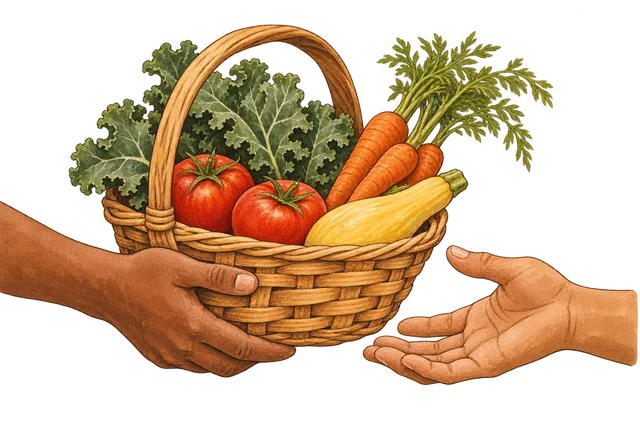
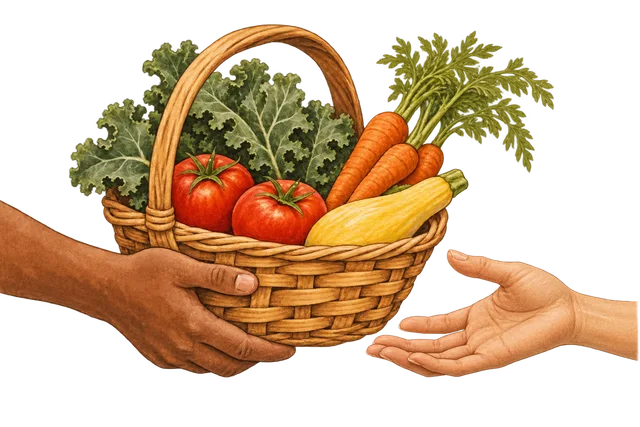
Add okra artwork and refine receiving hand in harvest scene

diff --git a/apps/grn/src/components/branding/GardenArt.test.tsx b/apps/grn/src/components/branding/GardenArt.test.tsx
@@ -11,8 +11,13 @@ describe('Garden artwork', () => {
   });
 
   it('uses existing silhouettes for crops without an illustration', () => {
+    render(<CropArtwork iconKey="asparagus" title="Asparagus" />);
+    expect(screen.getByRole('img', { name: 'Asparagus' }).tagName.toLowerCase()).toBe('svg');
+  });
+
+  it('uses the botanical illustration for okra', () => {
     render(<CropArtwork iconKey="okra" title="Okra" />);
-    expect(screen.getByRole('img', { name: 'Okra' }).tagName.toLowerCase()).toBe('svg');
+    expect(screen.getByRole('img', { name: 'Okra' })).toHaveAttribute('src', '/images/botanical/crops/okra.svg');
   });
 
   it('recovers from a failed image and tries the next crop independently', () => {

diff --git a/apps/grn/src/components/branding/GardenArt.tsx b/apps/grn/src/components/branding/GardenArt.tsx
@@ -5,7 +5,7 @@ import './GardenArt.css';
 
 const illustratedCrops = new Set<CropIconKey>([
   'basil', 'broccoli', 'carrot', 'cucumber', 'kale', 'lettuce',
-  'onion', 'pea', 'pepper', 'radish', 'strawberry', 'tomato',
+  'okra', 'onion', 'pea', 'pepper', 'radish', 'strawberry', 'tomato',
 ]);
 
 interface CropArtworkProps {

diff --git a/docs/design-botanical-art.md b/docs/design-botanical-art.md
@@ -4,17 +4,17 @@ A modern botanical field-journal direction: clear silhouettes, fine dark olive l
 
 ## Assets and usage
 
-`apps/grn/public/images/botanical/crops/` contains twelve original vector illustrations: basil, broccoli, carrot, cucumber, kale, lettuce, onion, pea, pepper, radish, strawberry, and tomato. Each is an 80 by 80 transparent SVG, under 1 KB. They are used in plant records, seasonal suggestions, harvest timelines, and saved-harvest feedback. Unsupported crops and failed image loads use the existing silhouette system. Canvas markers and small utility icons retain their current graphics for legibility and performance.
+`apps/grn/public/images/botanical/crops/` contains thirteen original vector illustrations: basil, broccoli, carrot, cucumber, kale, lettuce, okra, onion, pea, pepper, radish, strawberry, and tomato. Each is an 80 by 80 transparent SVG, under 1 KB. They are used in plant records, seasonal suggestions, harvest timelines, and saved-harvest feedback. Unsupported crops and failed image loads use the existing silhouette system. Canvas markers and small utility icons retain their current graphics for legibility and performance.
 
 `first-garden.webp` is an inviting raised bed with three seedlings, a terracotta pot, and a trowel. It appears in the empty Plants view and the getting-started checklist (the checklist omits it on small screens to keep the action close).
 
 `neighbor-harvest.webp` shows two neighbors' hands offering and receiving a basket of produce. It appears beside the Share introduction. Neither scene is a photograph or user garden record.
 
-Both scenes are 640 by 427 WebP with alpha, about 100 KB and 83 KB respectively. Explicit dimensions reserve space; assets load lazily. Scenes are decorative and removed if loading fails. Visible labels and actions work without images. Saved-harvest artwork has a single 240 ms entrance that is disabled with reduced motion.
+Both scenes are 640 by 427 WebP with alpha, about 100 KB and 74 KB respectively. Explicit dimensions reserve space; assets load lazily. Scenes are decorative and removed if loading fails. Visible labels and actions work without images. Saved-harvest artwork has a single 240 ms entrance that is disabled with reduced motion.
 
 ## Generation and prompt set
 
-The two scenes were generated using the built-in ImageGen tool, then resized and encoded as WebP with Sharp, preserving transparency. Original generated PNGs remain in the tool's generated-images folder. Project assets live under `apps/grn/public/images/botanical/`. The twelve SVGs were drawn directly as editable vector source, extending the app's existing graphic system.
+The two scenes were generated using the built-in ImageGen tool, then resized and encoded as WebP with Sharp, preserving transparency. Original generated PNGs remain in the tool's generated-images folder. Project assets live under `apps/grn/public/images/botanical/`. The thirteen SVGs were drawn directly as editable vector source, extending the app's existing graphic system.
 
 Shared scene prompt: One production illustration for Good Roots Network, a warm professional gardening app. Modern botanical field-journal style: clean confident silhouettes, delicate ink detail, lightly textured gouache fills. Restrained moss and sage greens, terracotta, warm ochre, dark brown outlines. Mature editorial illustration, charming but not childish. No faces, mascot, lettering, logo, border, photography, or UI. Broad horizontal composition around 3:2, isolated vignette, organic edges, generous transparent padding, true transparent background. Legible around 260 pixels wide on cream. One cohesive scene, not a sprite sheet.
 
@@ -25,3 +25,7 @@ Neighbor harvest subject prompt: A modest woven basket holding two ripe red toma
 ## Review
 
 The crop contact sheet and generated scenes were visually inspected as image assets. Browser/phone layout review remains a separate verification step; the prior session did not have approved browser access. No stock photography or third-party illustration libraries were added.
+
+## Artwork revision
+
+Added an okra SVG with two ridged green pods in the existing vector palette. Revised the basket using built-in ImageGen with the existing scene as edit target. Prompt: Change only the lighter-skinned receiving hand and wrist on the right into an adult white woman's hand, with gently slender fingers, a narrower wrist, softly shaped knuckles, and natural short oval unpolished nails. Preserve the palm-up receiving gesture, skin tone, darker offering hand, basket, vegetables, texture, framing, and transparent background. No jewelry or new objects. The revised image replaces `neighbor-harvest.webp`; its original generated PNG remains in the tool output folder.
